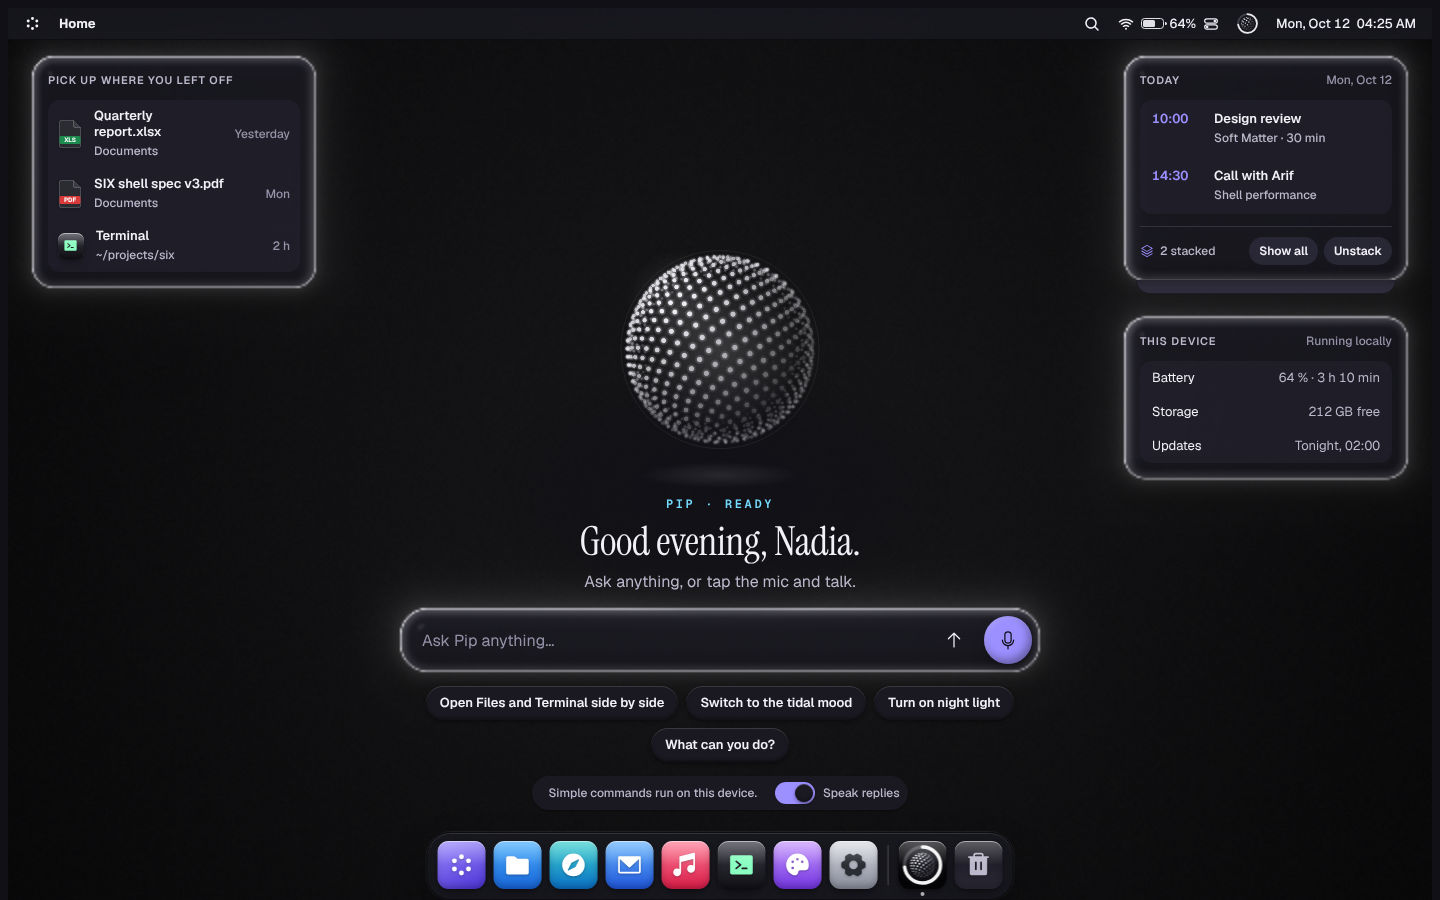
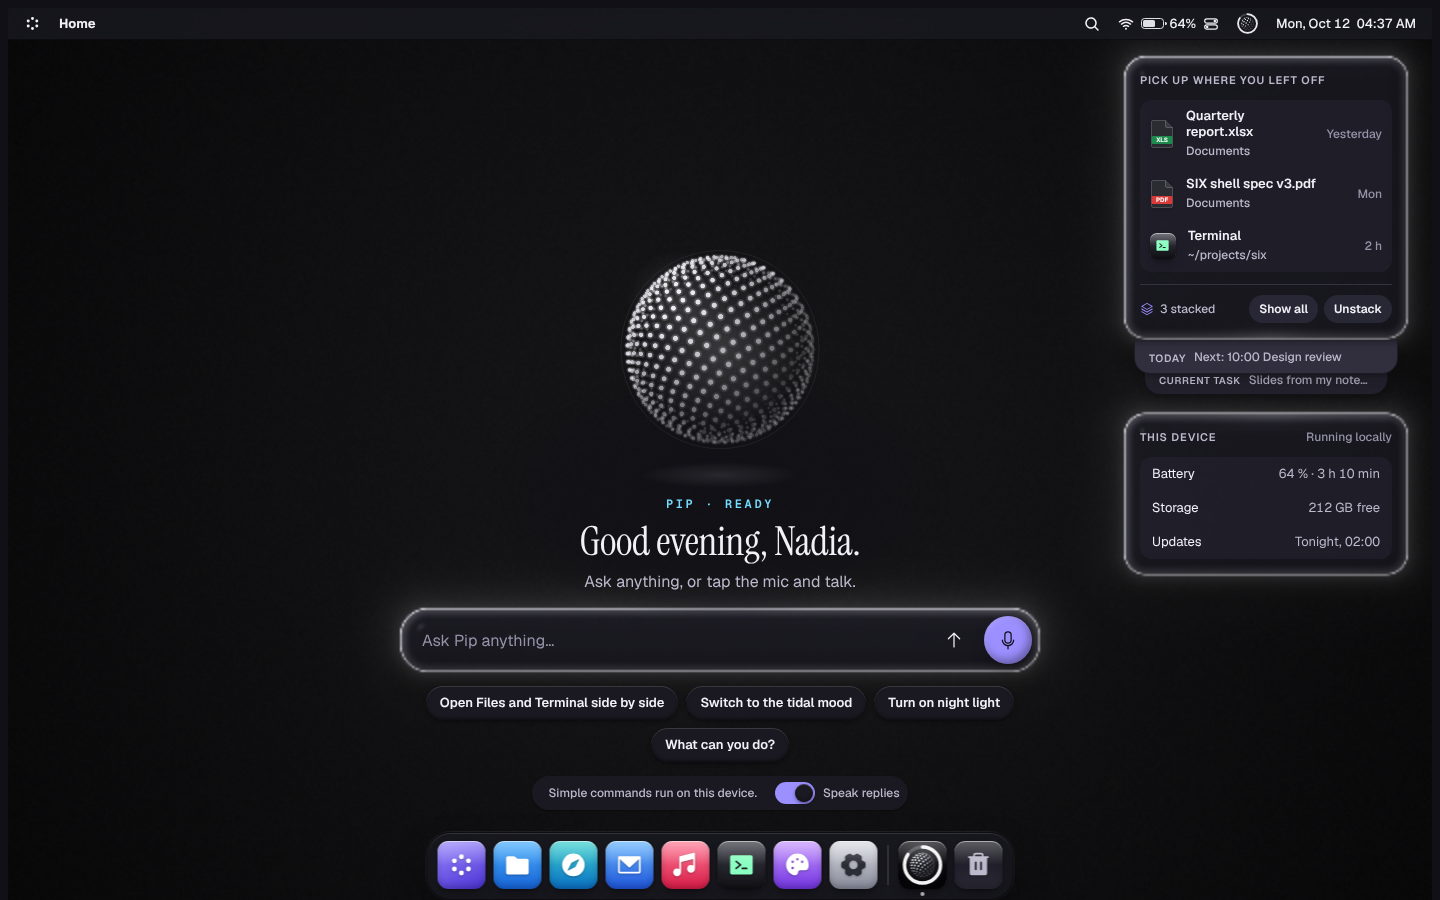
Show previews of stacked cards and pull out one card at a time
- Under a stack's top card, the next two cards peek out as previews with
  their title and a live summary line (+N more for deeper stacks)
- A drag always moves exactly one card: the top card, or the card whose
  preview is grabbed; the rest of the stack stays put
- Clicking a preview brings that card to the front; Alt + arrows on a
  stacked top card moves it out
- Guide chapter 14 and the stack screenshot updated

Claude-Session: https://claude.ai/code/session_01Vtxi7RyoKrSpBE2mZioMFq

diff --git a/design/prototype/index.html b/design/prototype/index.html
@@ -442,16 +442,28 @@ input[type="range"] { flex: 1; accent-color: var(--c-accent); height: var(--cont
 .widget.drop-target::after { content: "Release to stack"; position: absolute; z-index: 6; left: 50%; top: 50%; transform: translate(-50%, -50%); padding: 5px 12px; border-radius: 999px; background: var(--c-accent); color: var(--c-text-on-accent); font: var(--text-label); white-space: nowrap; box-shadow: var(--shadow-2); }
 .widget.merged { animation: merge-pop 0.45s var(--ease-out); }
 @keyframes merge-pop { 0% { scale: 0.97; } 40% { scale: 1.03; } 100% { scale: 1; } }
-.plate { position: absolute; z-index: 2; pointer-events: none; border-radius: 0 0 18px 18px; border: 1px solid var(--glass-edge); border-top: 0;
-  background: color-mix(in srgb, var(--c-surface-3) 92%, transparent); box-shadow: inset 0 7px 8px -7px rgba(0, 0, 0, 0.55), 0 6px 12px -6px rgba(0, 0, 0, 0.4); }
-.plate[data-depth="2"] { z-index: 1; background: color-mix(in srgb, var(--c-surface-3) 66%, transparent); }
+.peek {
+  position: absolute; z-index: 2; display: flex; align-items: flex-end; gap: 8px; padding: 0 14px 8px; overflow: hidden; white-space: nowrap;
+  border: 1px solid var(--glass-edge); border-top: 0; border-radius: 0 0 16px 16px; cursor: grab; touch-action: none; text-align: left;
+  background: color-mix(in srgb, var(--c-surface-2) 94%, transparent); color: var(--c-text-2); font: var(--text-caption);
+  box-shadow: inset 0 9px 9px -9px rgba(0, 0, 0, 0.6), 0 6px 12px -6px rgba(0, 0, 0, 0.4);
+  transition: translate var(--dur-fast) var(--ease-out), background var(--dur-fast);
+}
+.peek b { flex: none; font: 600 10.5px/14px var(--font-ui); letter-spacing: 0.06em; text-transform: uppercase; color: var(--c-text-2); }
+.peek .peek-line { min-width: 0; overflow: hidden; text-overflow: ellipsis; color: var(--c-text-2); }
+.peek .peek-more { margin-left: auto; color: var(--c-text-3); }
+.peek:hover, .peek:focus-visible { background: var(--c-surface-3); translate: 0 3px; }
+.peek:focus-visible { outline-offset: 2px; }
+.peek[data-depth="2"] { z-index: 1; padding-bottom: 6px; background: color-mix(in srgb, var(--c-surface-2) 78%, transparent); }
+.peek[data-depth="2"] b { font-size: 10px; }
+.peek[data-depth="2"] .peek-line { opacity: 0.85; }
 .stack-bar { display: flex; align-items: center; gap: 6px; padding-top: 10px; border-top: 1px solid var(--c-line); }
 .stack-count { display: inline-flex; align-items: center; gap: 6px; margin-right: auto; font: var(--text-caption); color: var(--c-text-2); white-space: nowrap; }
 .stack-count svg.i { width: 14px; height: 14px; color: var(--c-accent); }
 .stack-btn { border: 0; height: 28px; padding: 0 10px; white-space: nowrap; flex: none; border-radius: 999px; background: color-mix(in srgb, var(--c-surface-3) 70%, transparent); color: var(--c-text); font: 600 12px/1 var(--font-ui); }
 .stack-btn:hover { background: var(--c-surface-3); }
 #home.stack .widget.stack-hidden { visibility: visible; pointer-events: auto; }
-#home.stack .plate { display: none; }
+#home.stack .peek { display: none; }
 .widget:focus-visible { outline-offset: 4px; border-radius: var(--radius-xl); }
 .widget h3 { margin: 0; font: var(--text-overline); text-transform: uppercase; letter-spacing: 0.08em; color: var(--c-text-2); display: flex; justify-content: space-between; align-items: center; }
 .widget h3 small { font: var(--text-caption); text-transform: none; letter-spacing: 0; color: var(--c-text-3); }
@@ -1872,7 +1884,7 @@ input[type="range"] { flex: 1; accent-color: var(--c-accent); height: var(--cont
     const H = desk.clientHeight - dockSpace() - 8;
     // cards the user placed (or stacked) stay put; the rest flow down their column around them
     const taken = widgetEls.filter(c => phys.get(c).moved && !c.classList.contains('stack-hidden')).map(c => {
-      const p = phys.get(c), st = stackOf(c), plates = st && !st.open && st.cards[0] === c ? 24 : 0;
+      const p = phys.get(c), st = stackOf(c), plates = st && !st.open && st.cards[0] === c ? (st.cards.length > 2 ? 62 : 34) : 0;
       return [p.tx, p.ty, c.offsetWidth, c.offsetHeight + plates];
     });
     widgetEls.forEach(el => {
@@ -1893,11 +1905,16 @@ input[type="range"] { flex: 1; accent-color: var(--c-accent); height: var(--cont
       el.style.left = ph.x + 'px'; el.style.top = ph.y + 'px';
     });
   }
-  // Stacks, like notification stacks: drop one card on another and they stack. The stack shows
-  // plates underneath, a count and two actions; pull the top card out or Unstack to put them back.
+  // Stacks, like notification stacks: drop one card on another and they stack. Under the top card,
+  // previews of the next cards peek out (title + one line). A drag only ever takes one card out:
+  // the top card, or the card whose preview you grab. Click a preview to bring that card to the front.
   const stacks = [];
   const stackOf = el => stacks.find(st => st.cards.includes(el));
   const cardName = el => el.getAttribute('aria-label');
+  const peekLine = c => ({
+    L0: 'Quarterly report.xlsx · 2 more', L1: 'Next: 10:00 Design review',
+    R0: `Slides from my notes · ${typeof taskPct === 'number' ? taskPct : 40} %`, R1: 'Battery 64 % · 212 GB free',
+  })[c.dataset.slot] || '';
   function targetAt(el, x, y) {
     return widgetEls.find(c => {
       if (c === el || c.classList.contains('stack-hidden')) return false;
@@ -1906,7 +1923,7 @@ input[type="range"] { flex: 1; accent-color: var(--c-accent); height: var(--cont
     }) || null;
   }
   function renderStacks() {
-    $$('.plate').forEach(p => p.remove());
+    $$('.peek').forEach(p => p.remove());
     widgetEls.forEach(c => { c.classList.remove('stack-hidden', 'stack-top'); $('.stack-bar', c)?.remove(); });
     stacks.forEach(st => {
       const top = st.cards[0];
@@ -1925,17 +1942,20 @@ input[type="range"] { flex: 1; accent-color: var(--c-accent); height: var(--cont
         if (!st.open && i) c.classList.add('stack-hidden');
       });
       if (!st.open) for (let d = 1; d <= Math.min(2, st.cards.length - 1); d++) {
-        const p = document.createElement('div');
-        p.className = 'plate'; p.dataset.depth = d; p._top = top;
+        const c = st.cards[d], more = st.cards.length - 3;
+        const p = document.createElement('button');
+        p.type = 'button'; p.className = 'peek'; p.dataset.depth = d; p._top = top; p._card = c;
+        p.setAttribute('aria-label', `${cardName(c)}, in this stack. Click to bring it to the front, or drag it out.`);
+        p.innerHTML = `<b>${cardName(c)}</b><span class="peek-line">${peekLine(c)}</span>` + (d === 2 && more > 0 ? `<span class="peek-more">+${more} more</span>` : '');
         $('#widgets').append(p);
       }
     });
     updatePlates(); layoutHome(); markDirty();
   }
   function updatePlates() {
-    $$('.plate').forEach(p => {
+    $$('.peek').forEach(p => {
       const ph = phys.get(p._top), d = +p.dataset.depth, w = p._top.offsetWidth, h = p._top.offsetHeight;
-      Object.assign(p.style, { left: ph.x + 12 * d + 'px', top: ph.y + h - 1 + (d - 1) * 11 + 'px', width: w - 24 * d + 'px', height: (d === 1 ? 14 : 12) + 'px' });
+      Object.assign(p.style, { left: ph.x + 10 * d + 'px', top: ph.y + h - 2 + (d - 1) * 30 + 'px', width: w - 20 * d + 'px', height: (d === 1 ? 34 : 28) + 'px' });
     });
   }
   function pullOut(el) {
@@ -1943,6 +1963,13 @@ input[type="range"] { flex: 1; accent-color: var(--c-accent); height: var(--cont
     st.cards.splice(st.cards.indexOf(el), 1);
     if (st.cards.length < 2) stacks.splice(stacks.indexOf(st), 1);
     renderStacks();
+  }
+  function bringToFront(el) {
+    const st = stackOf(el); if (!st || st.cards[0] === el) return;
+    st.cards.splice(st.cards.indexOf(el), 1); st.cards.unshift(el);
+    renderStacks();
+    el.classList.remove('merged'); void el.offsetWidth; el.classList.add('merged');
+    $('.stack-btn', el)?.focus();
   }
   function mergeInto(el, target) {
     let st = stackOf(target);
@@ -1959,11 +1986,50 @@ input[type="range"] { flex: 1; accent-color: var(--c-accent); height: var(--cont
     renderStacks();
   }
   $('#widgets').addEventListener('click', e => {
+    const p = e.target.closest('.peek');
+    if (p) { bringToFront(p._card); return; }
     const b = e.target.closest('.stack-btn'); if (!b) return;
     const st = stackOf(b.closest('.widget')); if (!st) return;
     if (b.dataset.act === 'toggle') { st.open = !st.open; renderStacks(); } else unstack(st);
   });
   let dragging = null, dropTarget = null;
+  // one drag moves exactly one card; if it was stacked, it leaves the stack and the rest stay put
+  function beginDrag(el, e, fromPeek) {
+    const ph = phys.get(el), dr = desk.getBoundingClientRect();
+    let ox = e.clientX - dr.left - ph.x, oy = e.clientY - dr.top - ph.y, started = false;
+    const move = ev => {
+      if (!started) {
+        if (Math.hypot(ev.clientX - e.clientX, ev.clientY - e.clientY) < 5) return;
+        started = true; dragging = el; el.classList.add('drag');
+        if (stackOf(el)) pullOut(el);
+        if (fromPeek) {   // the card comes out from under the stack, held by its header
+          ox = Math.min(64, el.offsetWidth / 2); oy = 18;
+          ph.x = ev.clientX - dr.left - ox; ph.y = ev.clientY - dr.top - oy; ph.vx = ph.vy = 0;
+        }
+      }
+      ph.moved = true;
+      ph.tx = ev.clientX - dr.left - ox; ph.ty = ev.clientY - dr.top - oy;
+      if (plasma.visc === 'solid') { ph.x = ph.tx; ph.y = ph.ty; }
+      const t = targetAt(el, ev.clientX, ev.clientY);
+      if (t !== dropTarget) { dropTarget?.classList.remove('drop-target'); dropTarget = t; t?.classList.add('drop-target'); }
+    };
+    const up = () => {
+      removeEventListener('pointermove', move); removeEventListener('pointerup', up); removeEventListener('pointercancel', up);
+      if (!started) return;   // a plain click on a preview is handled by the click listener
+      el.classList.remove('drag'); dragging = null;
+      if (dropTarget) { const t = dropTarget; t.classList.remove('drop-target'); dropTarget = null; mergeInto(el, t); return; }
+      const H = desk.clientHeight - dockSpace() - 8;
+      ph.tx = Math.min(Math.max(Math.round(ph.tx / 24) * 24, 0), desk.clientWidth - el.offsetWidth); // 24 px grid
+      ph.ty = Math.min(Math.max(Math.round(ph.ty / 24) * 24, mbH() + 8), H - el.offsetHeight);
+      if (plasma.visc === 'solid') { ph.x = ph.tx; ph.y = ph.ty; }
+    };
+    addEventListener('pointermove', move); addEventListener('pointerup', up); addEventListener('pointercancel', up);
+  }
+  $('#widgets').addEventListener('pointerdown', e => {
+    const p = e.target.closest('.peek');
+    if (!p || e.button !== 0 || !isWide()) return;
+    e.preventDefault(); beginDrag(p._card, e, true);
+  });
   widgetEls.forEach(el => {
     el.addEventListener('dblclick', e => {   // double-click a moved card to send it back to its place
       if (e.target.closest('button, a, input') || stackOf(el)) return;
@@ -1971,34 +2037,7 @@ input[type="range"] { flex: 1; accent-color: var(--c-accent); height: var(--cont
     });
     el.addEventListener('pointerdown', e => {
       if (e.button !== 0 || !isWide() || e.target.closest('button, a, input')) return;
-      e.preventDefault();
-      const ph = phys.get(el), dr = desk.getBoundingClientRect();
-      const ox = e.clientX - dr.left - ph.x, oy = e.clientY - dr.top - ph.y;
-      let started = false;
-      el.setPointerCapture(e.pointerId);
-      const move = ev => {
-        if (!started) {
-          if (Math.hypot(ev.clientX - e.clientX, ev.clientY - e.clientY) < 5) return;
-          started = true; dragging = el; el.classList.add('drag');
-          if (stackOf(el)) pullOut(el);   // dragging a stacked card takes it out of the stack
-        }
-        ph.moved = true;
-        ph.tx = ev.clientX - dr.left - ox; ph.ty = ev.clientY - dr.top - oy;
-        if (plasma.visc === 'solid') { ph.x = ph.tx; ph.y = ph.ty; }
-        const t = targetAt(el, ev.clientX, ev.clientY);
-        if (t !== dropTarget) { dropTarget?.classList.remove('drop-target'); dropTarget = t; t?.classList.add('drop-target'); }
-      };
-      const up = () => {
-        el.removeEventListener('pointermove', move); el.removeEventListener('pointerup', up); el.removeEventListener('pointercancel', up);
-        if (!started) return;
-        el.classList.remove('drag'); dragging = null;
-        if (dropTarget) { const t = dropTarget; t.classList.remove('drop-target'); dropTarget = null; mergeInto(el, t); return; }
-        const H = desk.clientHeight - dockSpace() - 8;
-        ph.tx = Math.min(Math.max(Math.round(ph.tx / 24) * 24, 0), desk.clientWidth - el.offsetWidth); // 24 px grid
-        ph.ty = Math.min(Math.max(Math.round(ph.ty / 24) * 24, mbH() + 8), H - el.offsetHeight);
-        if (plasma.visc === 'solid') { ph.x = ph.tx; ph.y = ph.ty; }
-      };
-      el.addEventListener('pointermove', move); el.addEventListener('pointerup', up); el.addEventListener('pointercancel', up);
+      e.preventDefault(); beginDrag(el, e, false);
     });
   });
   // keyboard alternative to dragging (WCAG 2.5.7): focus a card, Alt + arrows moves it one grid step
@@ -2008,6 +2047,7 @@ input[type="range"] { flex: 1; accent-color: var(--c-accent); height: var(--cont
       const d = { ArrowLeft: [-24, 0], ArrowRight: [24, 0], ArrowUp: [0, -24], ArrowDown: [0, 24] }[e.key];
       if (!e.altKey || !d || !isWide() || e.target !== el) return;
       e.preventDefault();
+      if (stackOf(el)) pullOut(el);
       const ph = phys.get(el), H = desk.clientHeight - dockSpace() - 8;
       ph.moved = true;
       ph.tx = Math.min(Math.max(Math.round((ph.tx + d[0]) / 24) * 24, 0), desk.clientWidth - el.offsetWidth);
@@ -2051,6 +2091,7 @@ input[type="range"] { flex: 1; accent-color: var(--c-accent); height: var(--cont
     $$('.dotorb[data-follow]:not(.orb-hi)').forEach(o => {
       if (taskLive && taskPct < 100) o.dataset.progress = (taskPct / 100).toFixed(2); else delete o.dataset.progress;
     });
+    $$('.peek').forEach(p => { const l = $('.peek-line', p); if (l) l.textContent = peekLine(p._card); });
     const label = taskLive && taskPct < 100 ? `Slides from my notes, ${taskPct} %` : '';
     $('#pipBtn').title = label ? 'Pip · ' + label : 'Pip';
     $('#pipBtn').setAttribute('aria-label', `Pip: ${PIP_STATES[pipNow][0]}${label ? '. ' + label : ''}. Show home`);

diff --git a/design/guide/14-home-assistant.md b/design/guide/14-home-assistant.md
@@ -50,13 +50,16 @@ Like notification stacks on a phone: drag one card onto another and they become 
 | Moment | What the person sees |
 |---|---|
 | Dragging over a card | The target gets a dashed accent outline and a "Release to stack" label |
-| Dropped | The dragged card lands on top with a small pop; one or two plates peek out underneath; the top card gains a bar: ⧉ *2 stacked* · **Show all** · **Unstack**; a toast says what was stacked, with **Unstack** |
+| Dropped | The dragged card lands on top with a small pop; the top card gains a bar: ⧉ *3 stacked* · **Show all** · **Unstack**; a toast says what was stacked, with **Unstack** |
+| Preview | Under the top card, the next two cards peek out as slim previews: their title and one live line ("TODAY · Next: 10:00 Design review", "CURRENT TASK · Slides from my notes · 64 %"); the second preview adds "+N more" when the stack is deeper |
+| Pull one out | A drag always moves exactly **one** card: drag the top card, or grab a preview to pull out that specific card. The rest of the stack stays where it is |
+| Bring to front | Click (or press Enter on) a preview: that card moves to the top of the stack |
 | Show all | The stack fans out into a column (cards fuse as liquid); **Collapse** folds it back |
-| Pull one out | Drag the top card (or any card of an open stack) away; it leaves the stack and stays where dropped |
 | Put things back | **Unstack** sends every card in the stack back to its original place; double-click any moved card to return it alone |
 
-Other cards flow around stacks and moved cards, so nothing overlaps. The keyboard path is the
-same as for moving: focus a card, `Alt + arrows`; the stack bar's buttons are normal buttons.
+Other cards flow around stacks and moved cards, so nothing overlaps. Keyboard: previews and the
+stack bar's buttons are normal buttons; `Alt + arrows` on the focused top card moves it out of
+the stack one grid step at a time.
 
 ## Conversation
 

diff --git a/design/README.md b/design/README.md
@@ -60,7 +60,7 @@ python3 design/tokens/check_contrast.py   # fails if any pair drops below its mi
 |---|---|---|
 | ![](screens/home-voice.png) | ![](screens/phone-dark.png) | ![](screens/guide-pip.png) |
 
-| Dragging a card onto another | Two cards stacked |
+| Dragging a card onto another | A stack of three, with previews |
 |---|---|
 | ![](screens/stack-drop.png) | ![](screens/stack.png) |
 
